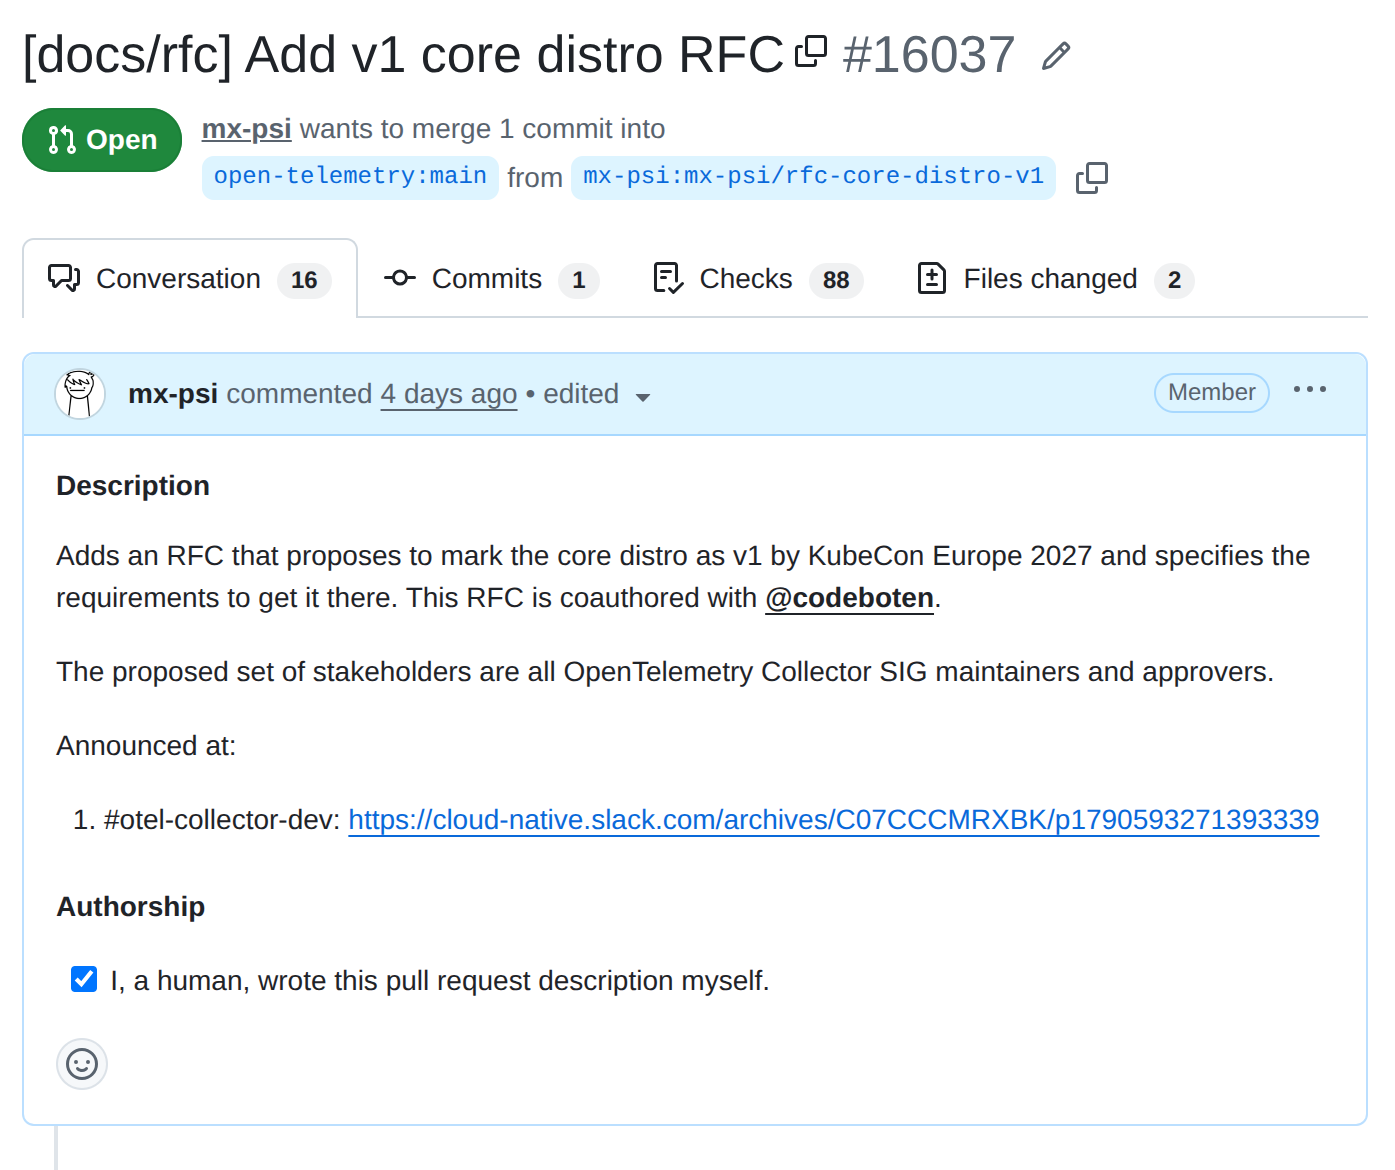
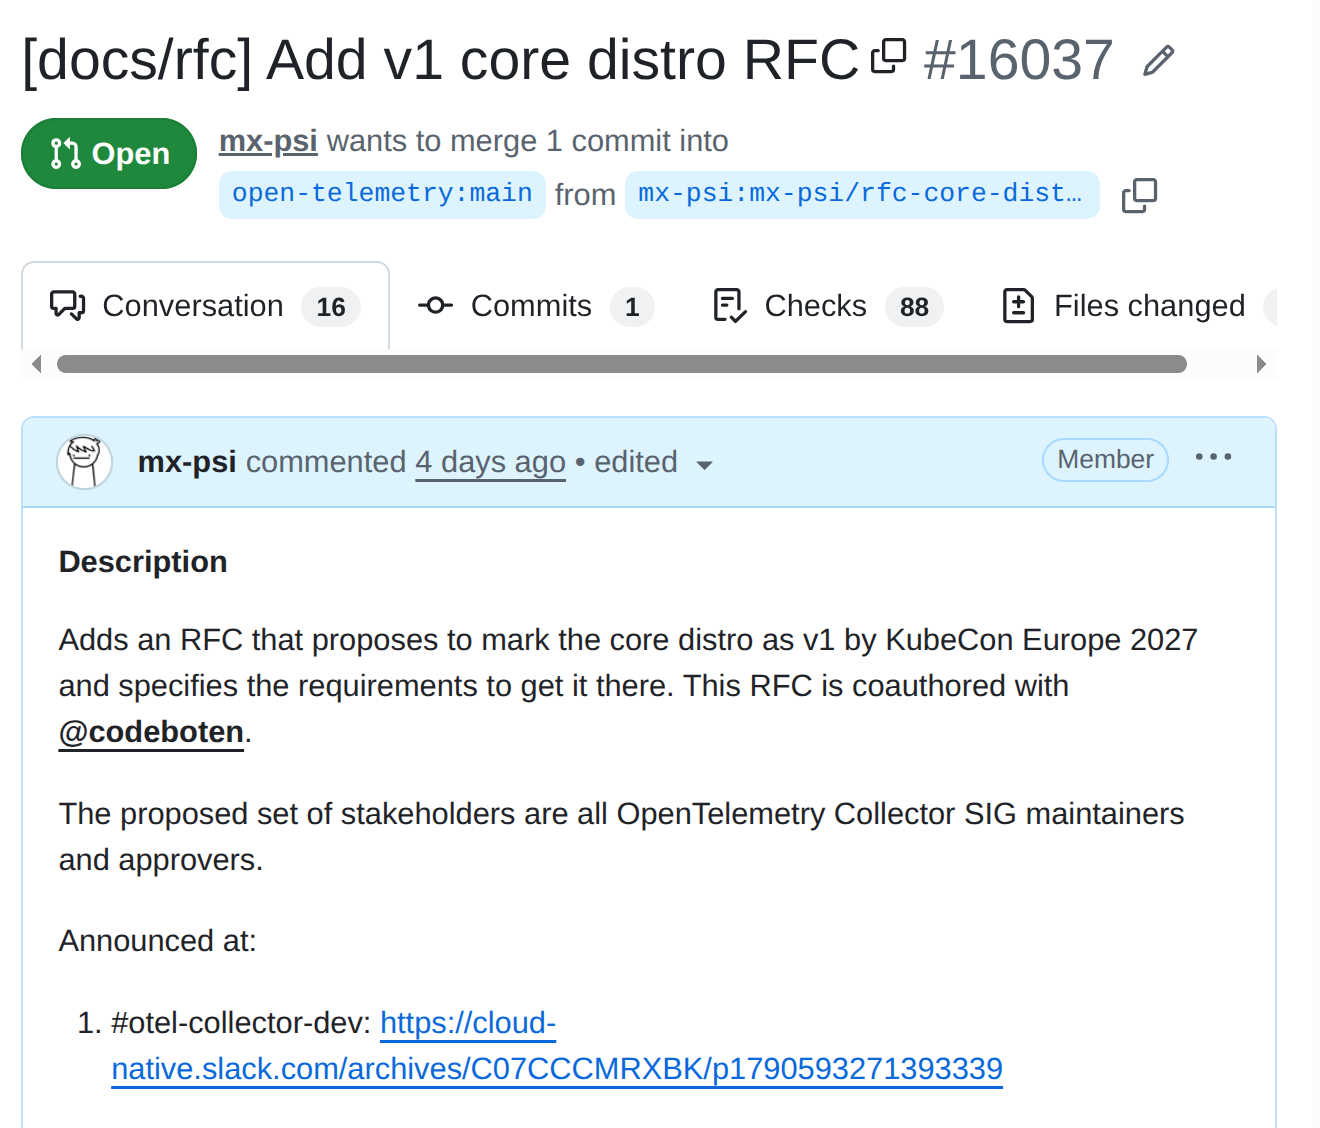
Collector v1 roadmap screenshot

diff --git a/slides/slides.md b/slides/slides.md
@@ -316,16 +316,20 @@ TODO: Add items for each of the areas of stability
 
 <div class="icon-grid">
   <carbon-function v-click="1" class="icon" />
-  <span v-click="1">Collector was already stabilizing core libraries and APIs.</span>
+  <span v-click="1">Since 2024, the Collector SIG has worked on stabilizing core libraries and APIs.</span>
   <carbon-idea v-click="2" class="icon" />
-  <span v-click="2">What about the components that collect the telemetry?</span>
+  <span v-click="2">But what about specific components?</span>
+</div>
+
+<div v-click="1" class="flex justify-center mt-8">
+  <img src="/collector-v1-roadmap.png" class="max-h-40" />
 </div>
 
 <!-- PABLO
 
 Having defined this, how do we get to stability and what do we focus on first?
 
-Well, historically, the Collector has been (TODO: screenshot of Alex's blogpost?) focusing on stabilizing the foundational pieces of it, including the libraries that developers use to build components.
+Well, historically, the Collector has been focusing on stabilizing the foundational pieces of it, including the libraries that developers use to build components.
 
 Last year, after carefully considering the feedback related to graduation, we decided we had to re-focus our efforts into specific widely used components to have a more direct impact.
 -->
@@ -622,6 +626,11 @@ A couple of weeks ago we started discussing an RFC that would allow us
 
 # What's Next -- Minimum stability
 
+<p class="stable-namespaces-text">We are discussing how to make the default Collector experience stable.</p>
+
+<div class="absolute inset-0 flex justify-center items-center pointer-events-none">
+  <span class="font-mono text-6xl font-bold">--stability-level<span style="color: rgb(var(--accent))">?</span></span>
+</div>
 
 <!-- PABLO
 
